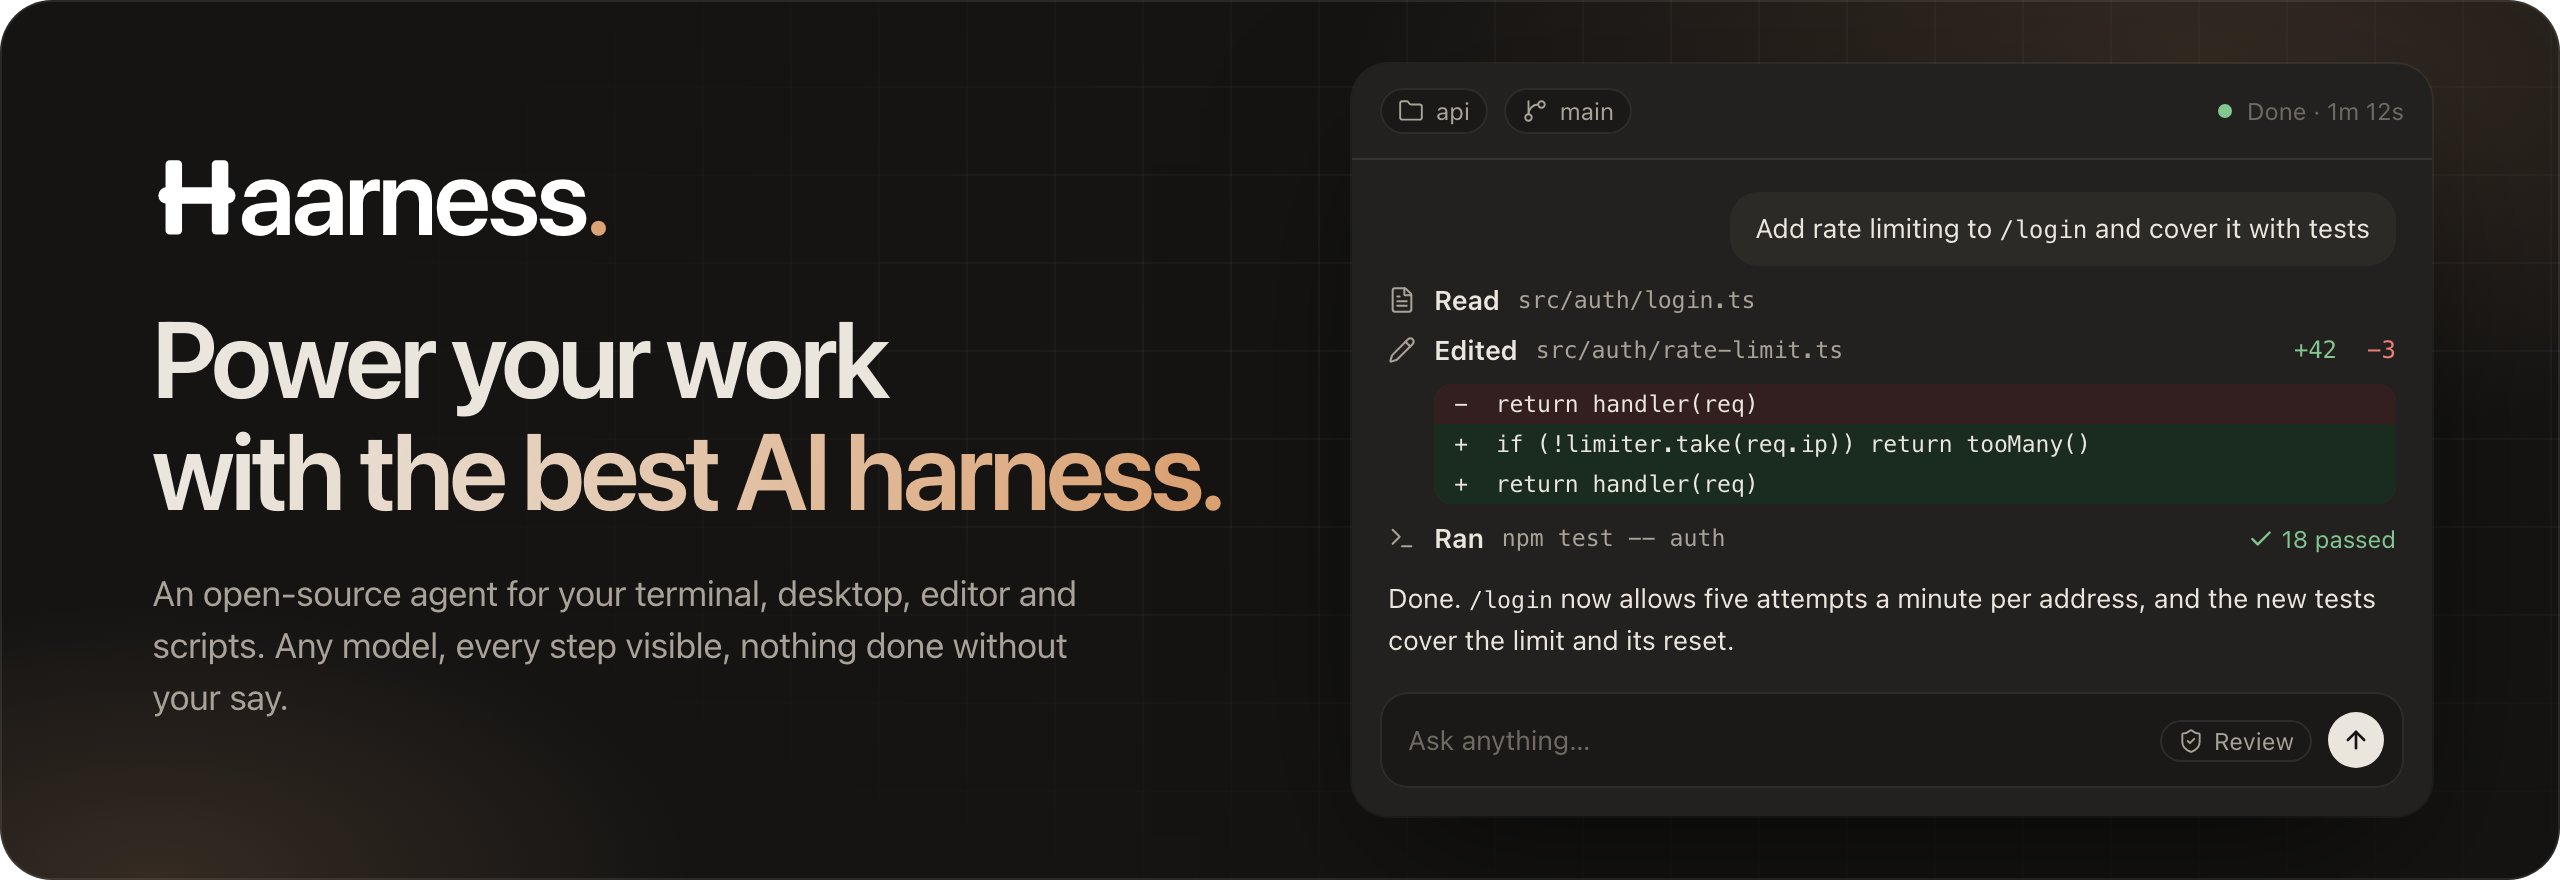
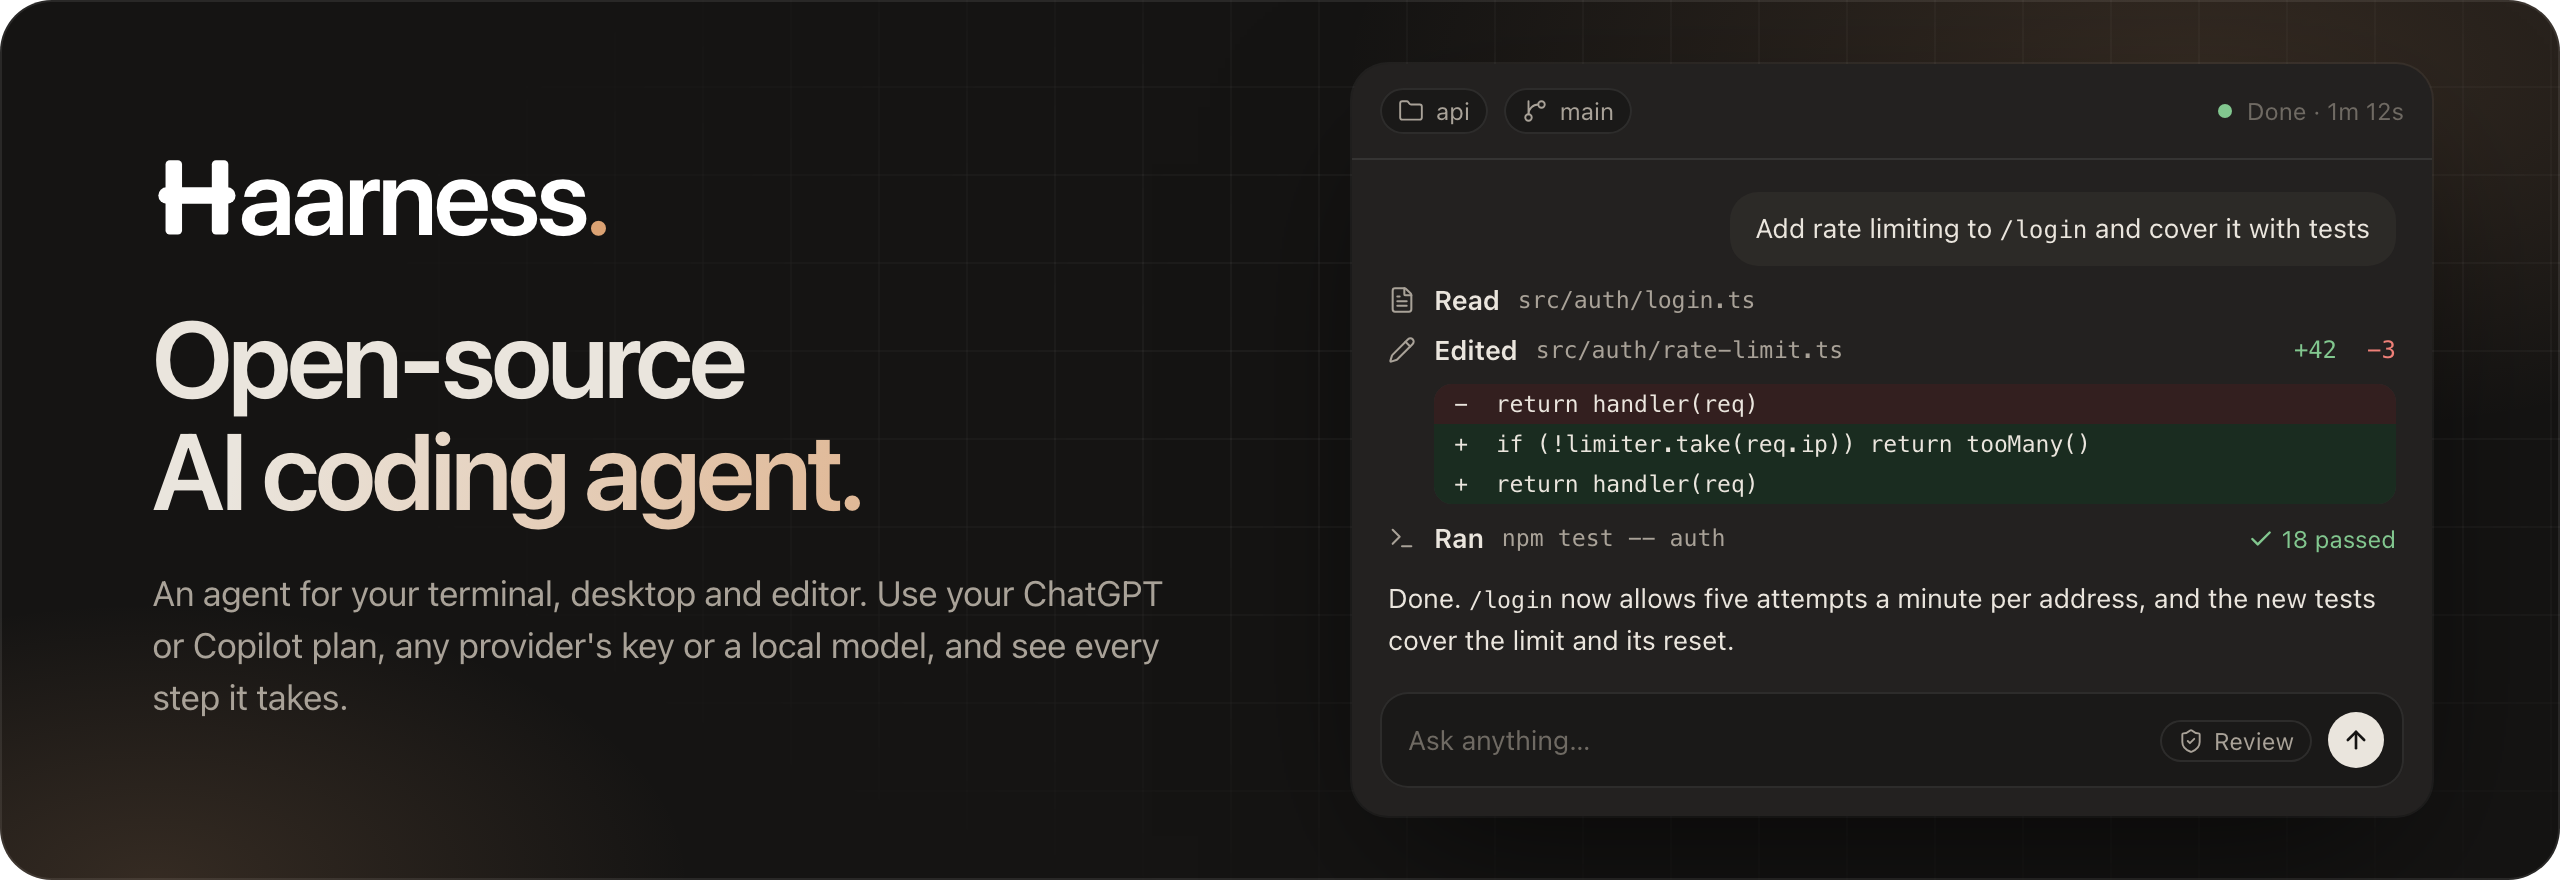
The README opens on Haarness as an open-source AI coding agent that works with any model
The banner and the first paragraph lead with coding and the models people already pay for, in line with the
website's new headline.

Changed region(s): [[0.0625, 0.3682, 0.5, 0.6136], [0.0625, 0.6443, 0.4375, 0.8284]]

diff --git a/README.md b/README.md
@@ -2,7 +2,7 @@
   <a href="https://haarness.ai">
     <picture>
       <source media="(prefers-color-scheme: dark)" srcset=".github/assets/banner-dark.png">
-      <img alt="Haarness — Power your work with the best AI harness." src=".github/assets/banner-light.png" width="100%">
+      <img alt="Haarness — Open-source AI coding agent." src=".github/assets/banner-light.png" width="100%">
     </picture>
   </a>
 </p>
@@ -18,10 +18,11 @@
   <a href="locales/README.md"><img alt="17 interface languages" src="https://img.shields.io/badge/languages-17-eae5dd?style=flat-square&labelColor=232120"></a>
 </p>
 
-**Haarness is an AI assistant that does the work, not just the talking.** You see every step, and it
-asks before anything that matters. One open-source agent works in your project from a terminal UI, a desktop
-app, your editor, scripts and CI, and keeps going in [Haarness Cloud](https://haarness.ai) when you
-close the lid.
+**Haarness is an open-source AI coding agent that works with any model.** Bring your ChatGPT or
+GitHub Copilot plan, a key for Claude, GPT, Gemini and more, or a model on your own machine. It reads
+your code, makes the change, runs your tests and shows every step. One agent works in your project from a
+terminal UI, a desktop app, your editor, scripts and CI, and keeps going in
+[Haarness Cloud](https://haarness.ai) when you close the lid.
 
 A local server owns every chat, turn and tool call and keeps them durable: closing a window or losing a
 connection never stops the work, and every client sees the same chats. The CLI, server and terminal UI
